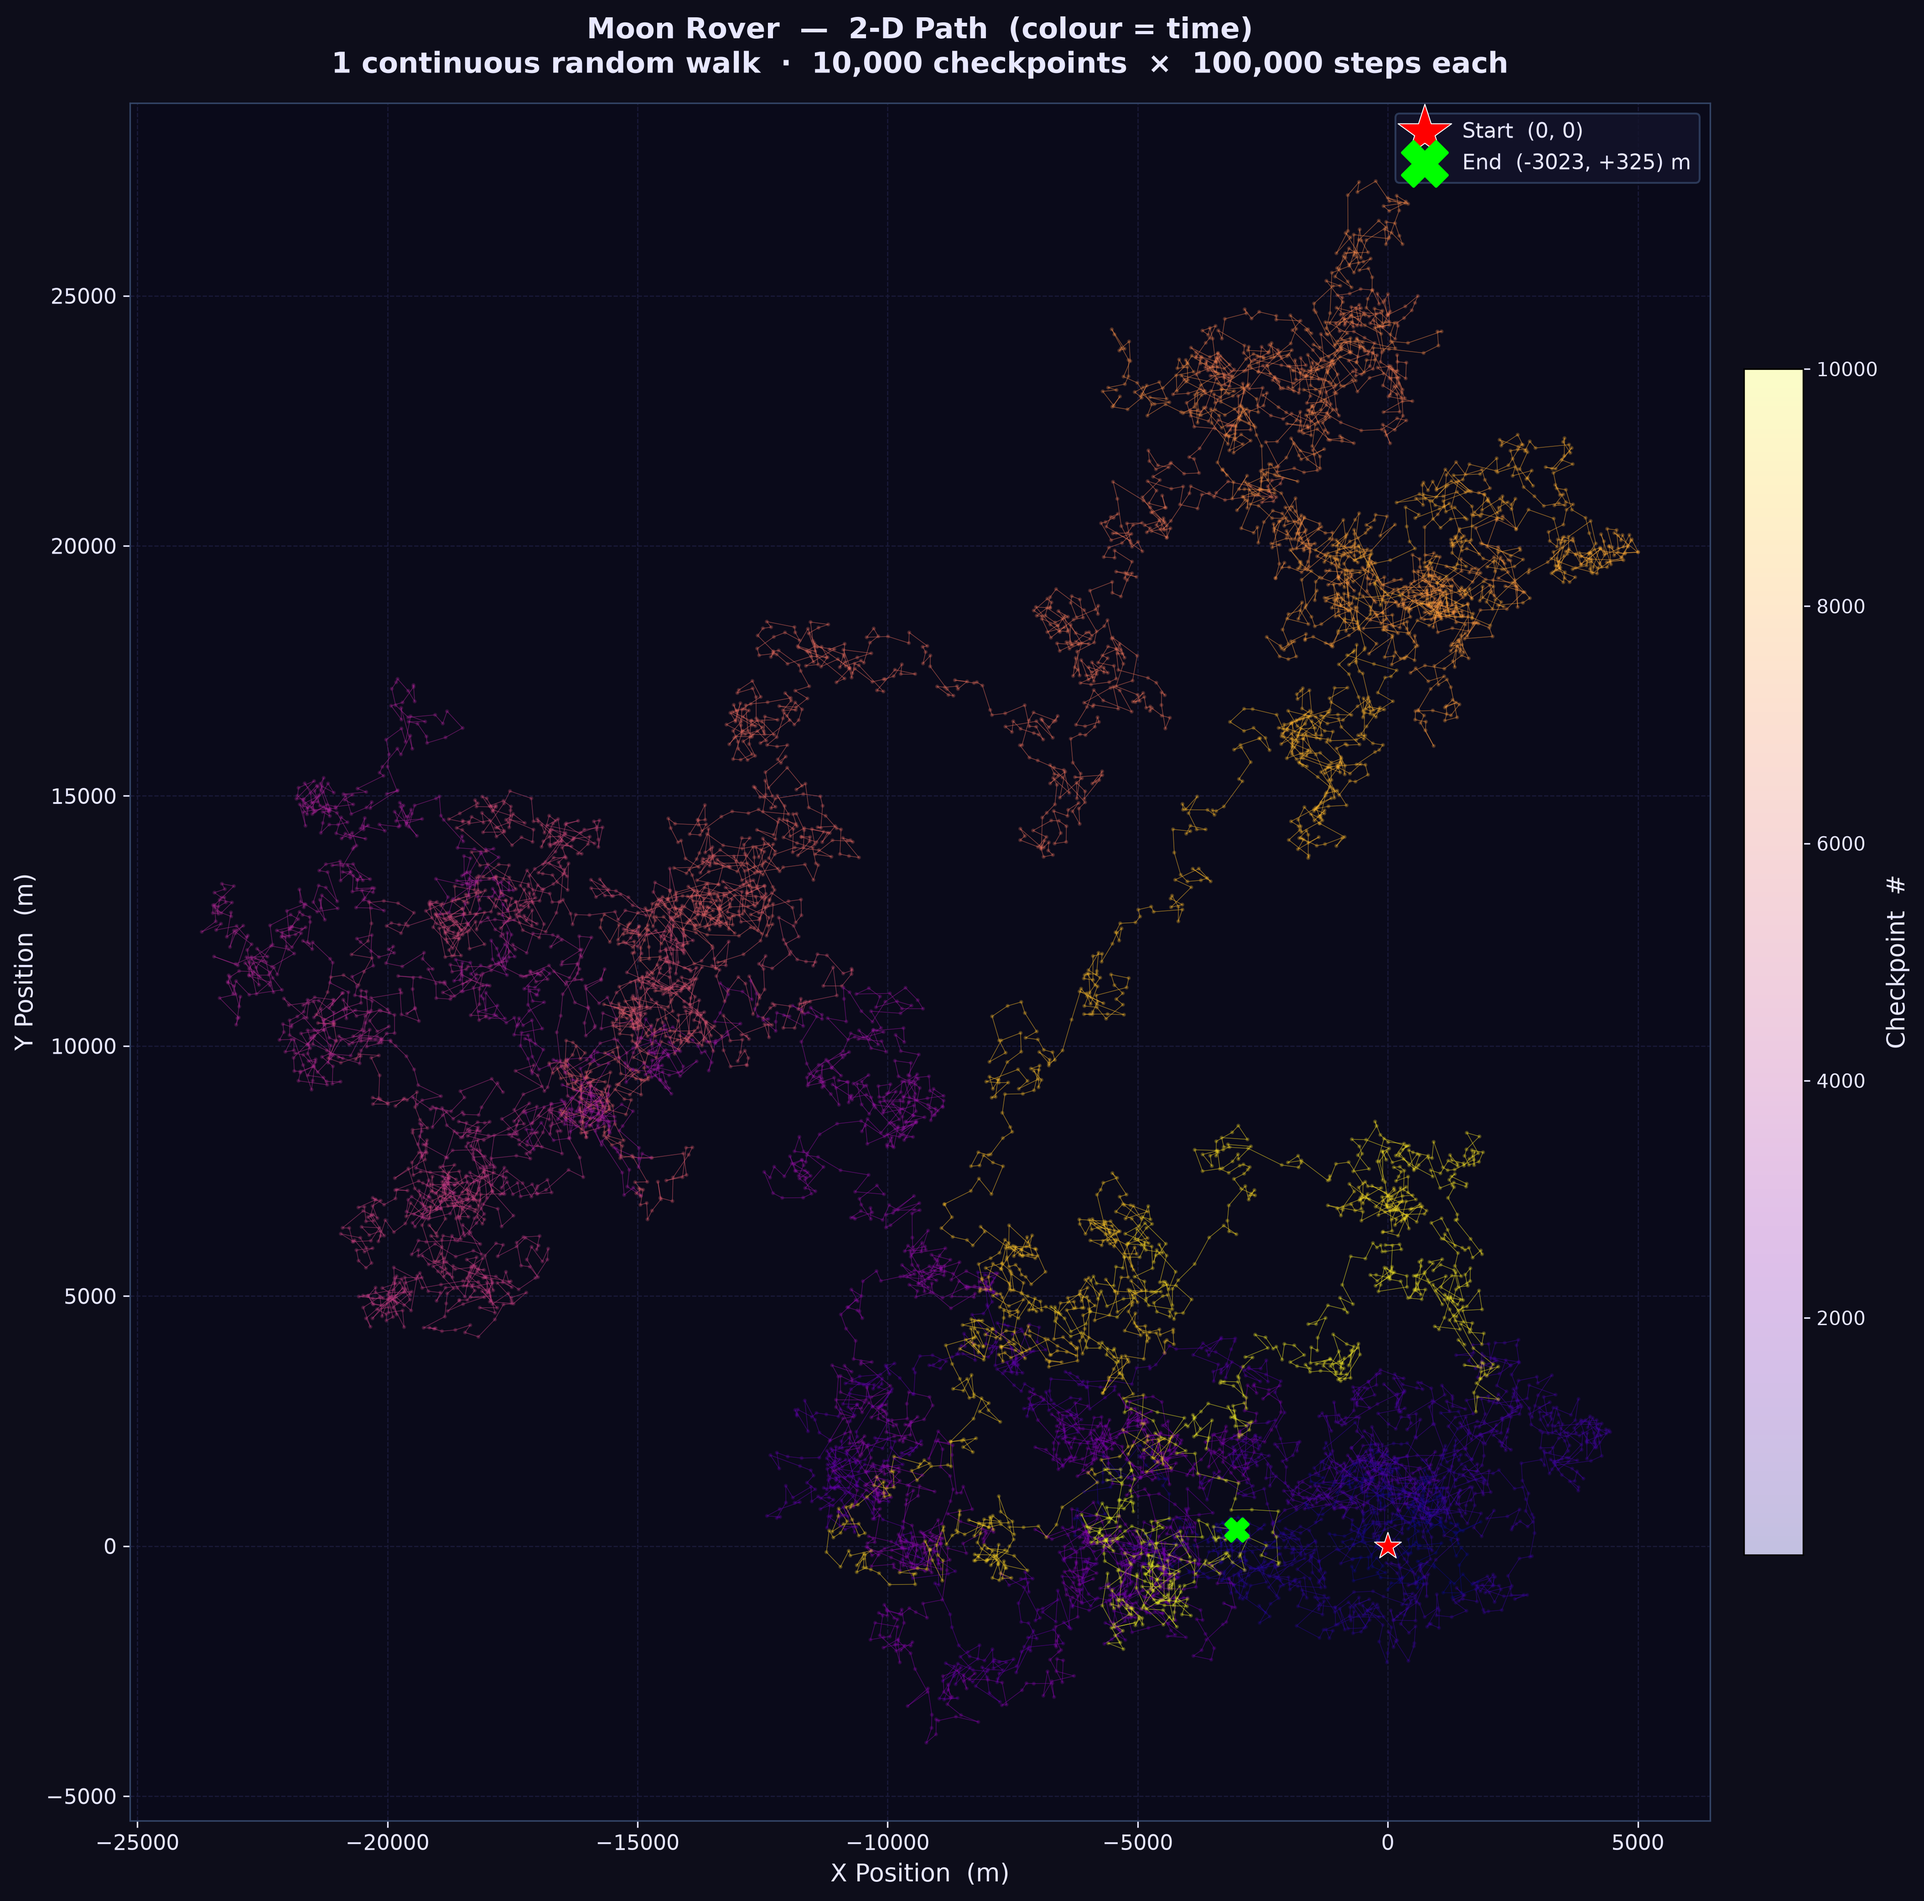
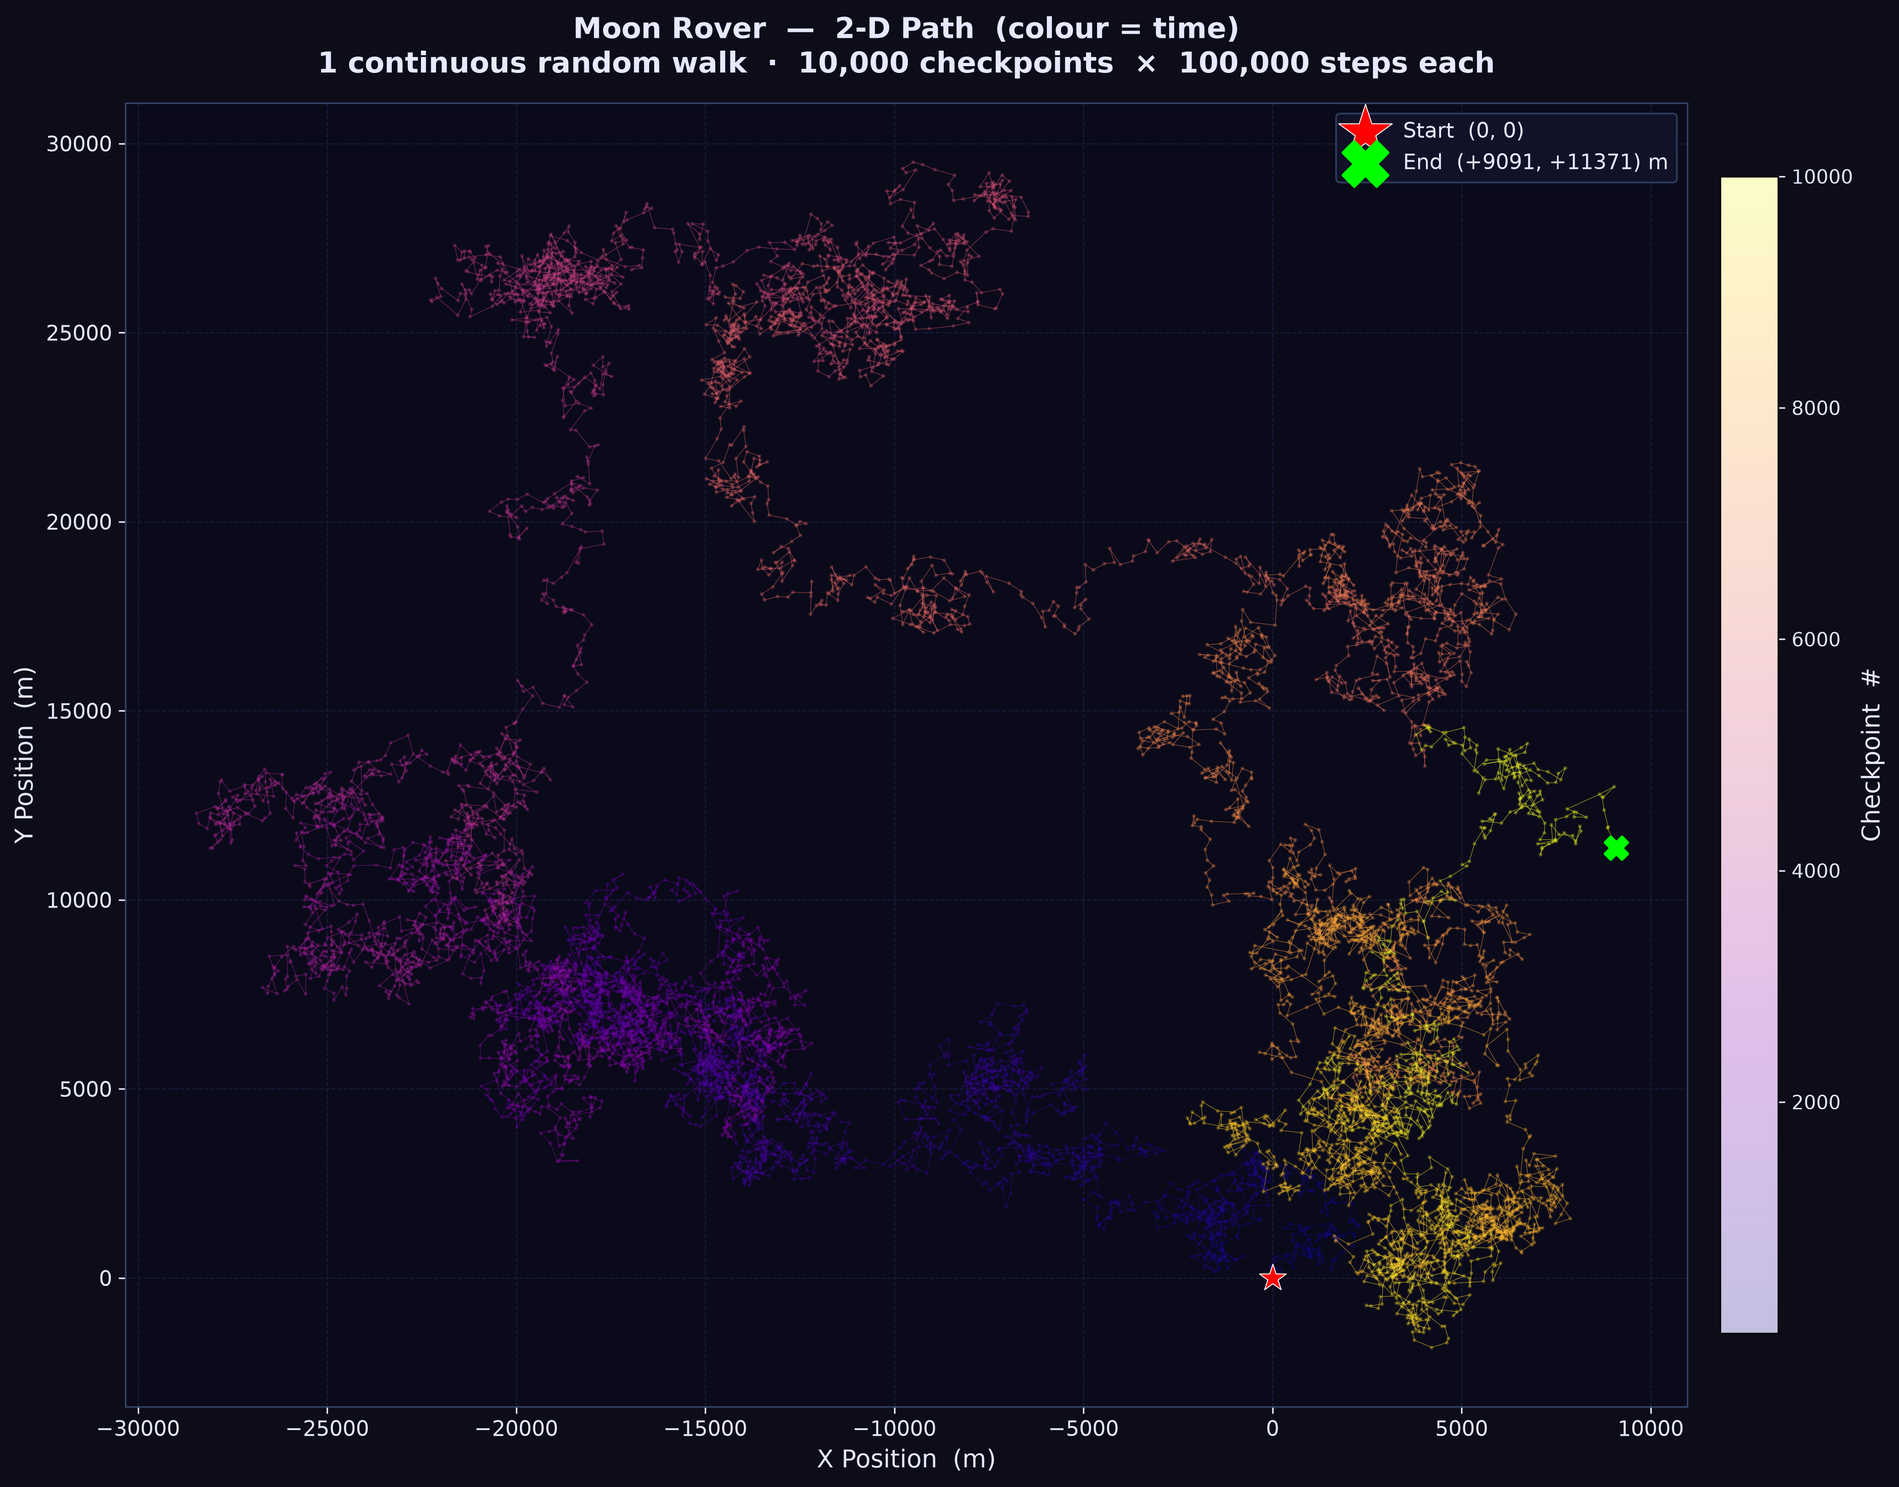
Remove fixed seed so each run produces a unique path
Claude-Session: https://claude.ai/code/session_018KwBvYQk7MAQ6HHa6mDAib

diff --git a/moon_rover_path_hd.py b/moon_rover_path_hd.py
@@ -9,8 +9,8 @@ from matplotlib.collections import LineCollection
 from scipy import stats
 import time
 
-def run_chained(n_sims=10_000, n_steps=100_000, seed=42):
-    rng = np.random.default_rng(seed)
+def run_chained(n_sims=10_000, n_steps=100_000):
+    rng = np.random.default_rng()
     pos_x = np.empty(n_sims)
     pos_y = np.empty(n_sims)
     x = y = 0.0
@@ -29,7 +29,7 @@ def run_chained(n_sims=10_000, n_steps=100_000, seed=42):
     return pos_x, pos_y
 
 print("Regenerating positions...")
-x_pos, y_pos = run_chained()
+x_pos, y_pos = run_chained()  # no seed — different path every run
 k = np.arange(1, len(x_pos) + 1)
 
 # ── Plot ───────────────────────────────────────────────────────────────────────
